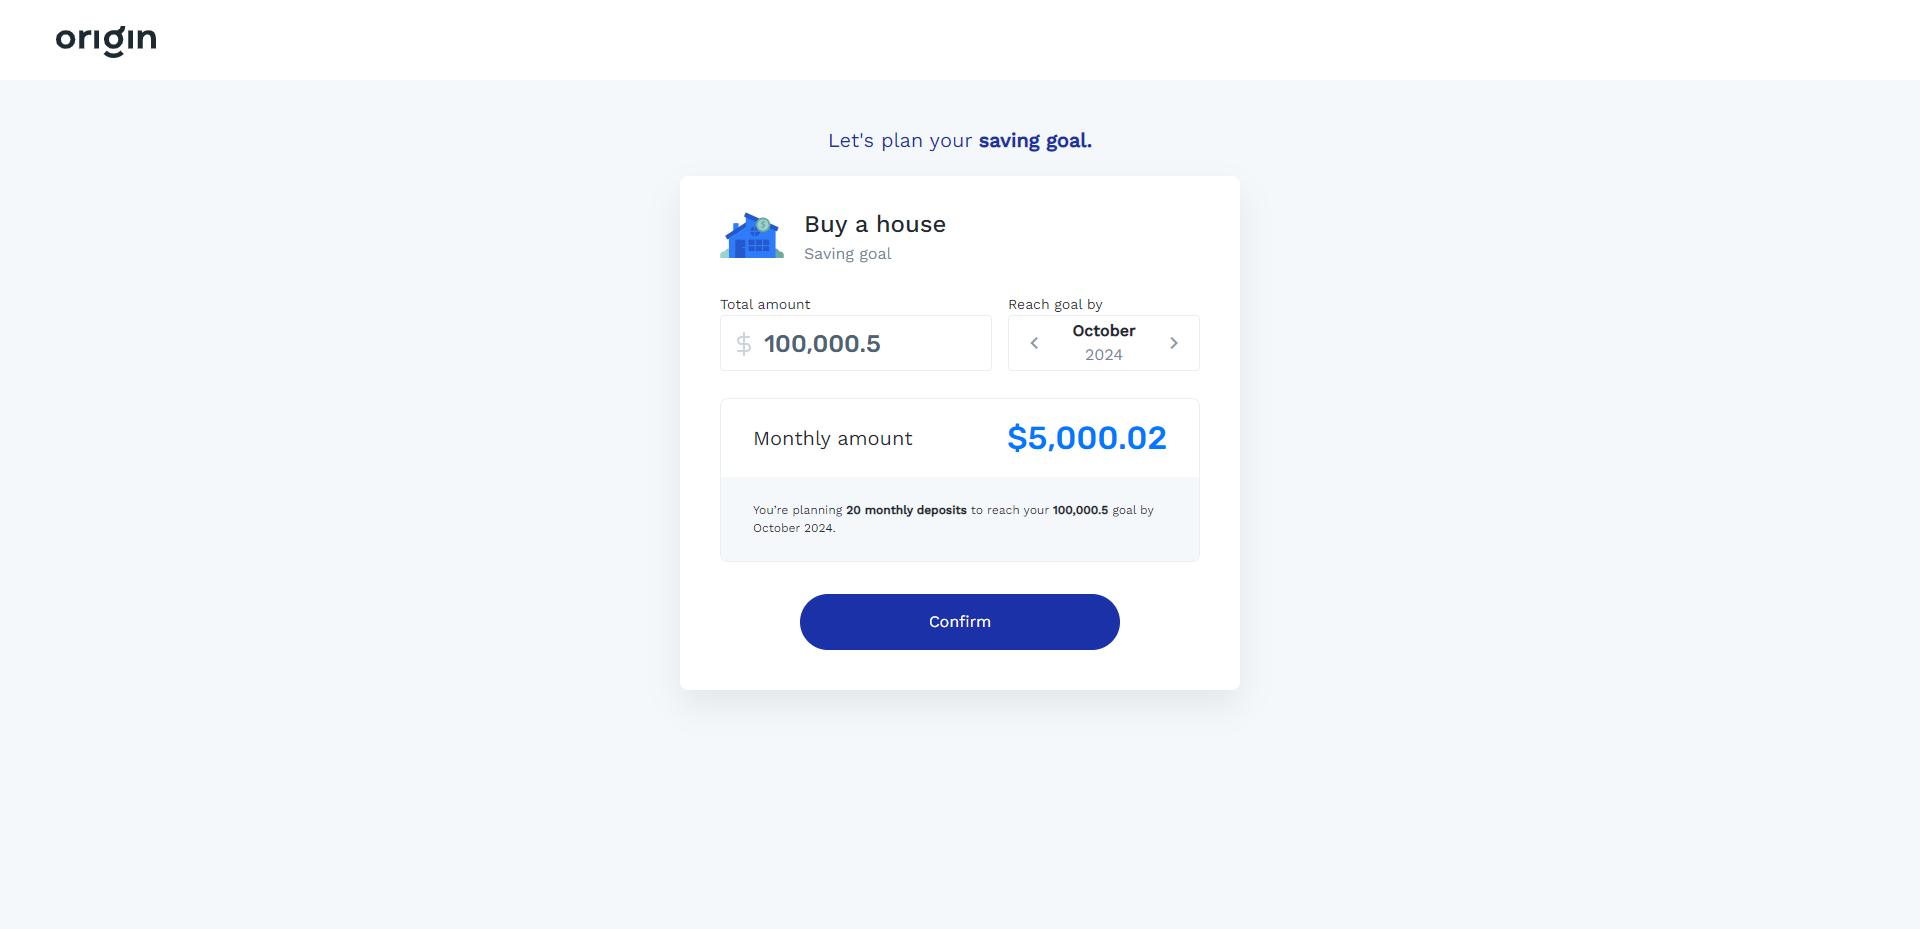
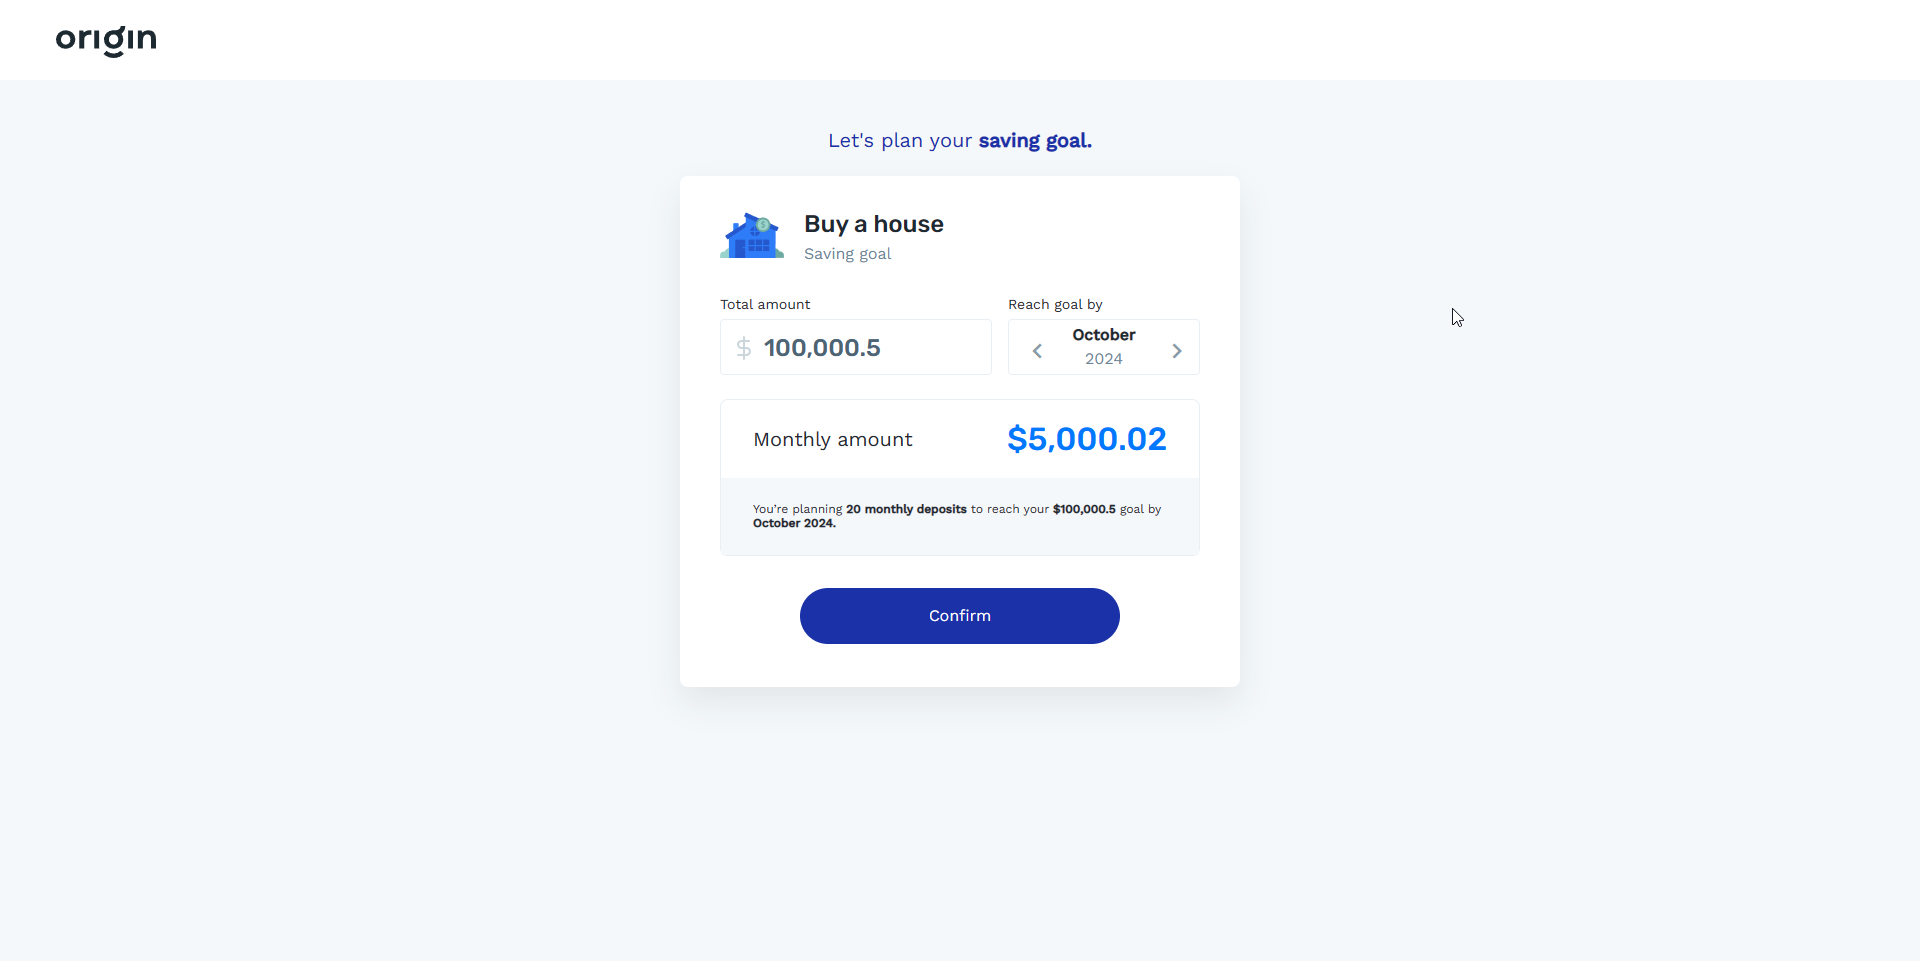
update source

diff --git a/src/app/pages/saving-goal-plan/saving-goal-plan.component.scss b/src/app/pages/saving-goal-plan/saving-goal-plan.component.scss
@@ -8,7 +8,7 @@
   .title-content-header {
     color: #1b31a8;
     font-size: 20px;
-    line-height: 24px;
+    line-height: 120%;
     padding-top: 48px;
     text-align: center;
   }
@@ -25,6 +25,7 @@
 
     .header-info {
       display: flex;
+      align-items: center;
 
       .house-icon {
         width: 64px;
@@ -33,8 +34,18 @@
       }
 
       .label-info-right {
+        .buy-house {
+          font-family: 'Rubik';
+          font-size: 24px;
+          line-height: 120%;
+          font-weight: 500;
+        }
+
         .saving-goal-label {
           color: #708797;
+          font-size: 16px;
+          line-height: 24px;
+          padding-top: 4px;
         }
       }
     }
@@ -59,9 +70,8 @@
 
             .input-amount {
               font-family: 'Rubik';
-              font-style: normal;
-              font-weight: 500;
               font-size: 24px;
+              font-weight: 500;
               line-height: 120%;
               color: #4D6475;
             }
@@ -145,6 +155,9 @@
           .change-month-icon {
             color: #8a9ca9;
             cursor: pointer;
+            font-size: 30px;
+            line-height: 120%;
+            margin-top: -5px;
           }
 
           .disable-change-month {
@@ -166,6 +179,12 @@
           outline: none;
         }
       }
+
+      .amount-label {
+        font-size: 14px;
+        line-height: 21px;
+        padding-bottom: 4px;
+      }
     }
 
     .monthly-amount {
@@ -182,6 +201,11 @@
         justify-content: space-between;
         margin: 0 32px;
 
+        .monthly-amount-label {
+          font-size: 20px;
+          line-height: 120%;
+        }
+
         .amount-data {
           color: #0079FF;
           font-family: 'Rubik';
@@ -196,6 +220,7 @@
       .description-bottom {
         background-color: #f4f8fa;
         font-size: 12px;
+        line-height: 120%;
         padding: 24px 32px;
         word-break: break-word;
       }
@@ -225,9 +250,27 @@
   }
 
   @media only screen and (max-width: 560px) {
+    .title-content-header {
+      font-size: 18px;
+      padding-top: 32px;
+    }
+
     .saving-goal-container {
       padding: 24px;
       min-height: auto;
+
+      .header-info {
+        .label-info-right {
+          .buy-house {
+            font-size: 20px;
+          }
+
+          .saving-goal-label {
+            font-size: 14px;
+            line-height: 21px;
+          }
+        }
+      }
 
       .input-content {
         height: auto;
@@ -235,10 +278,30 @@
         .total-amount {
           width: 100%;
           margin-right: 0;
+          padding-bottom: 16px;
         }
 
         .reach-goal {
           width: 100%;
+        }
+
+        .amount-label {
+          font-size: 12px;
+          line-height: 18px;
+        }
+      }
+
+      .monthly-amount {
+        .amount-top {
+          margin: 0 24px;
+
+          .monthly-amount-label {
+            font-size: 18px;
+          }
+
+          .amount-data {
+            font-size: 24px;
+          }
         }
       }
     }

diff --git a/src/app/pages/saving-goal-plan/saving-goal-plan.component.html b/src/app/pages/saving-goal-plan/saving-goal-plan.component.html
@@ -6,13 +6,13 @@
     <div class="header-info">
       <mat-icon class="house-icon" aria-hidden="false" svgIcon="house"></mat-icon>
       <div class="label-info-right">
-        <div class="fz-24 fw-500">{{ 'BUY_A_HOUSE' | translate }}</div>
-        <div class="fz-16 saving-goal-label">{{ 'SAVING_GOAL' | translate }}</div>
+        <div class="buy-house">{{ 'BUY_A_HOUSE' | translate }}</div>
+        <div class="saving-goal-label">{{ 'SAVING_GOAL' | translate }}</div>
       </div>
     </div>
     <div class="input-content mt-24p">
       <div class="total-amount">
-        <div class="fz-14">{{ 'TOTAL_AMOUNT' | translate }}</div>
+        <div class="amount-label">{{ 'TOTAL_AMOUNT' | translate }}</div>
         <mat-form-field appearance="outline" class="custom-form-field">
           <span matPrefix>
             <mat-icon class="dollar-icon" aria-hidden="false" svgIcon="dollar"></mat-icon>
@@ -29,7 +29,7 @@
         </mat-form-field>
       </div>
       <div class="reach-goal">
-        <div class="fz-14">{{ 'REACH_GOAL_BY' | translate }}</div>
+        <div class="amount-label">{{ 'REACH_GOAL_BY' | translate }}</div>
         <div
           class="reach-date-input"
           tabindex="1"
@@ -51,7 +51,7 @@
     </div>
     <div class="monthly-amount mt-24p">
       <div class="amount-top">
-        <div class="fz-20">{{ 'MONTHLY_AMOUNT' | translate }}</div>
+        <div class="monthly-amount-label">{{ 'MONTHLY_AMOUNT' | translate }}</div>
         <div class="amount-data">{{ monthlyAmount }}</div>
       </div>
       <div

diff --git a/src/app/core/components/header/header.component.scss b/src/app/core/components/header/header.component.scss
@@ -8,4 +8,14 @@
     width: 100px;
     height: 32px;
   }
+
+  @media only screen and (max-width: 560px) {
+    height: 56px;
+    padding: 16px;
+
+    .logo-icon {
+      width: 75px;
+      height: 24px;
+    }
+  }
 }
